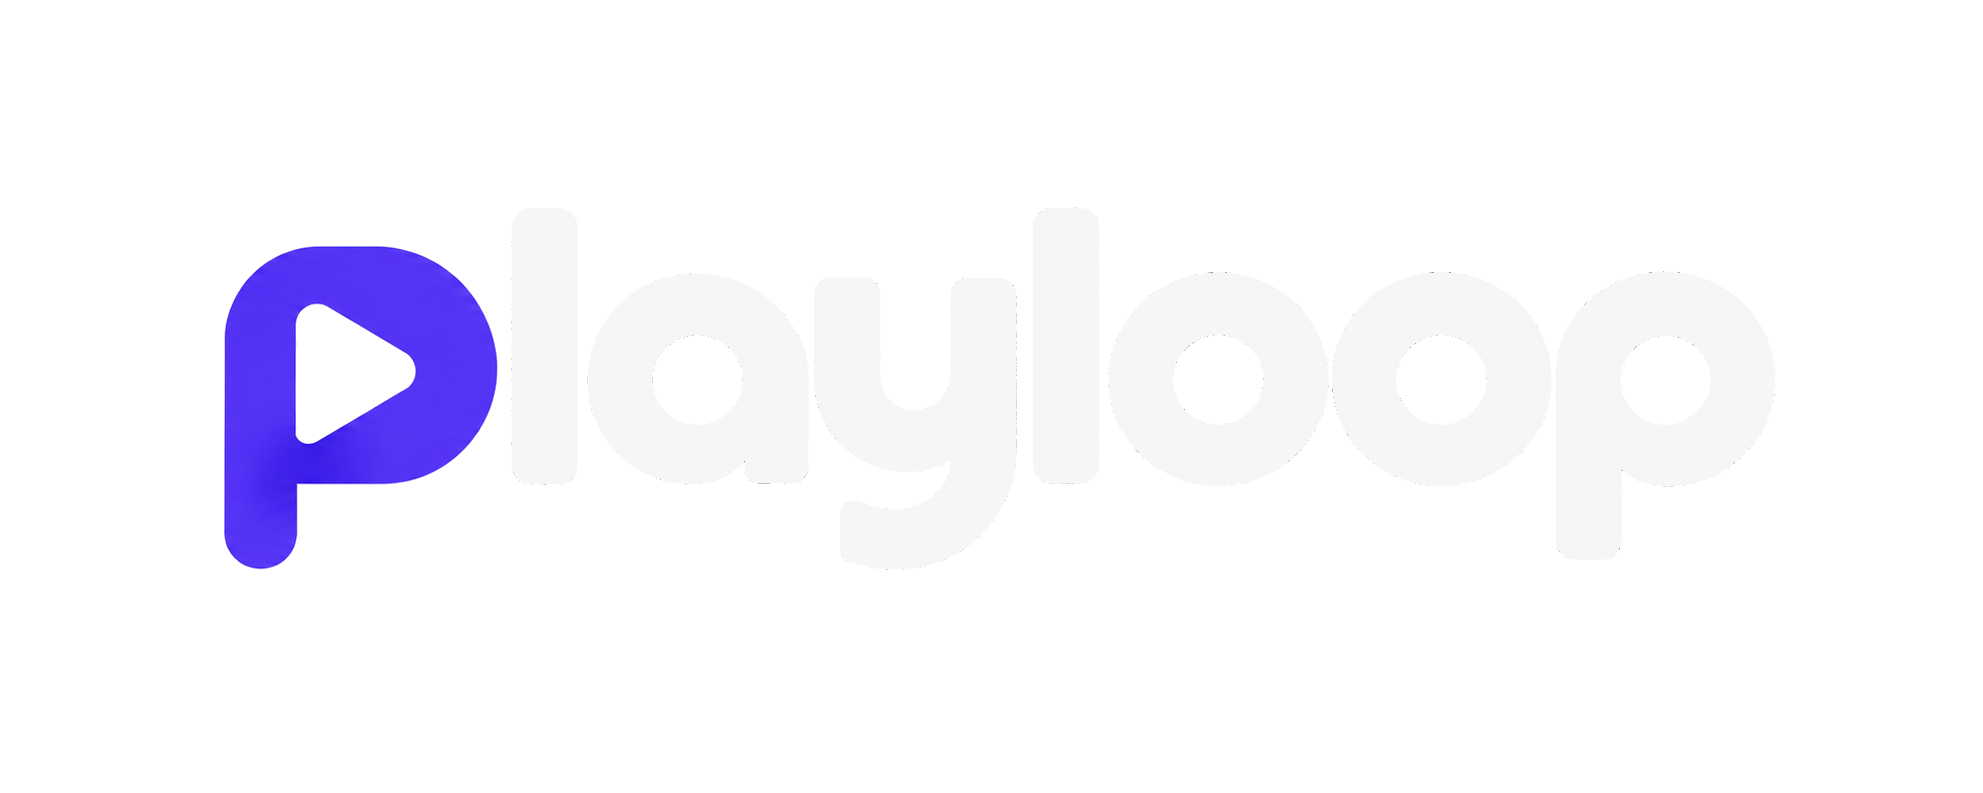
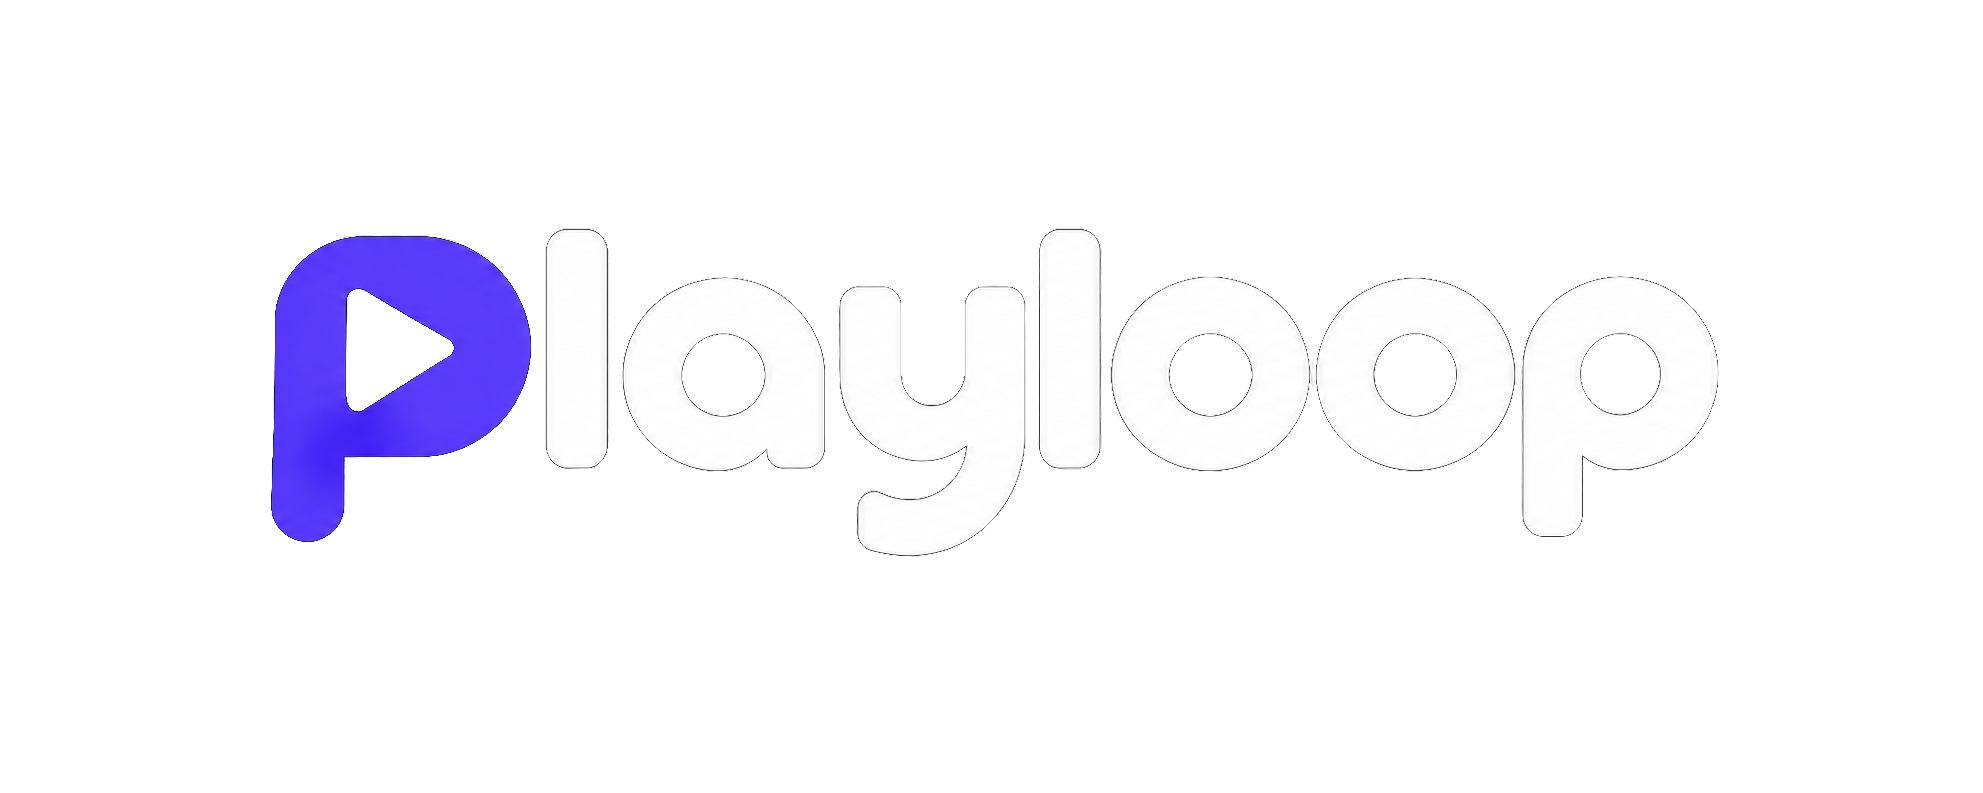
brand: use the real designed dark-mode wordmark
Replaces the previous programmatic recolor (light wordmark with text
channel-shifted toward white) with an actual designed dark-mode asset,
processed with proper color-distance background removal against its
own near-black background. Same 1983x793 dimensions as the light
wordmark, so sizing stays identical between modes.

Changed region(s): [[0.0923, 0.2724, 0.2769, 0.7264]]

diff --git a/components/Logomark.tsx b/components/Logomark.tsx
@@ -8,15 +8,16 @@
 // Dark mode here is pure CSS (globals.css's custom properties react to
 // `prefers-color-scheme` directly) — there is no `.dark` class/data-theme
 // toggle anywhere in the app, so Tailwind's `dark:` variant (configured
-// off a class) never actually activates. The wordmark's "layloop" text is
-// a dark, near-black color that goes practically invisible against the
-// dark-mode background, so a `<picture>` `media` swap — native, no JS —
-// falls back to a same-dimension variant with just the text recoloured
-// light for dark backgrounds (the icon itself is untouched — already
-// vivid enough against either). Deliberately NOT a different crop/asset
-// (e.g. an icon-only mark): two images with different aspect ratios
-// render at different widths for the same `h-*` className, which reads
-// as the logo randomly shrinking when the OS switches modes.
+// off a class) never actually activates. The light wordmark's "layloop"
+// text is a dark, near-black color that goes practically invisible
+// against the dark-mode background, so a `<picture>` `media` swap —
+// native, no JS — falls back to the dedicated dark-mode wordmark (a
+// separate designed asset, not a programmatic recolor) for dark
+// backgrounds. Both files are the same 1983x793 source dimensions
+// deliberately: an earlier version fell back to a differently-cropped
+// icon-only mark instead, and two images with different aspect ratios
+// render at different widths for the same `h-*` className, which read as
+// the logo randomly shrinking when the OS switched modes.
 export function Logomark({ className = "h-20 w-auto" }: { className?: string }) {
   return (
     <picture>
